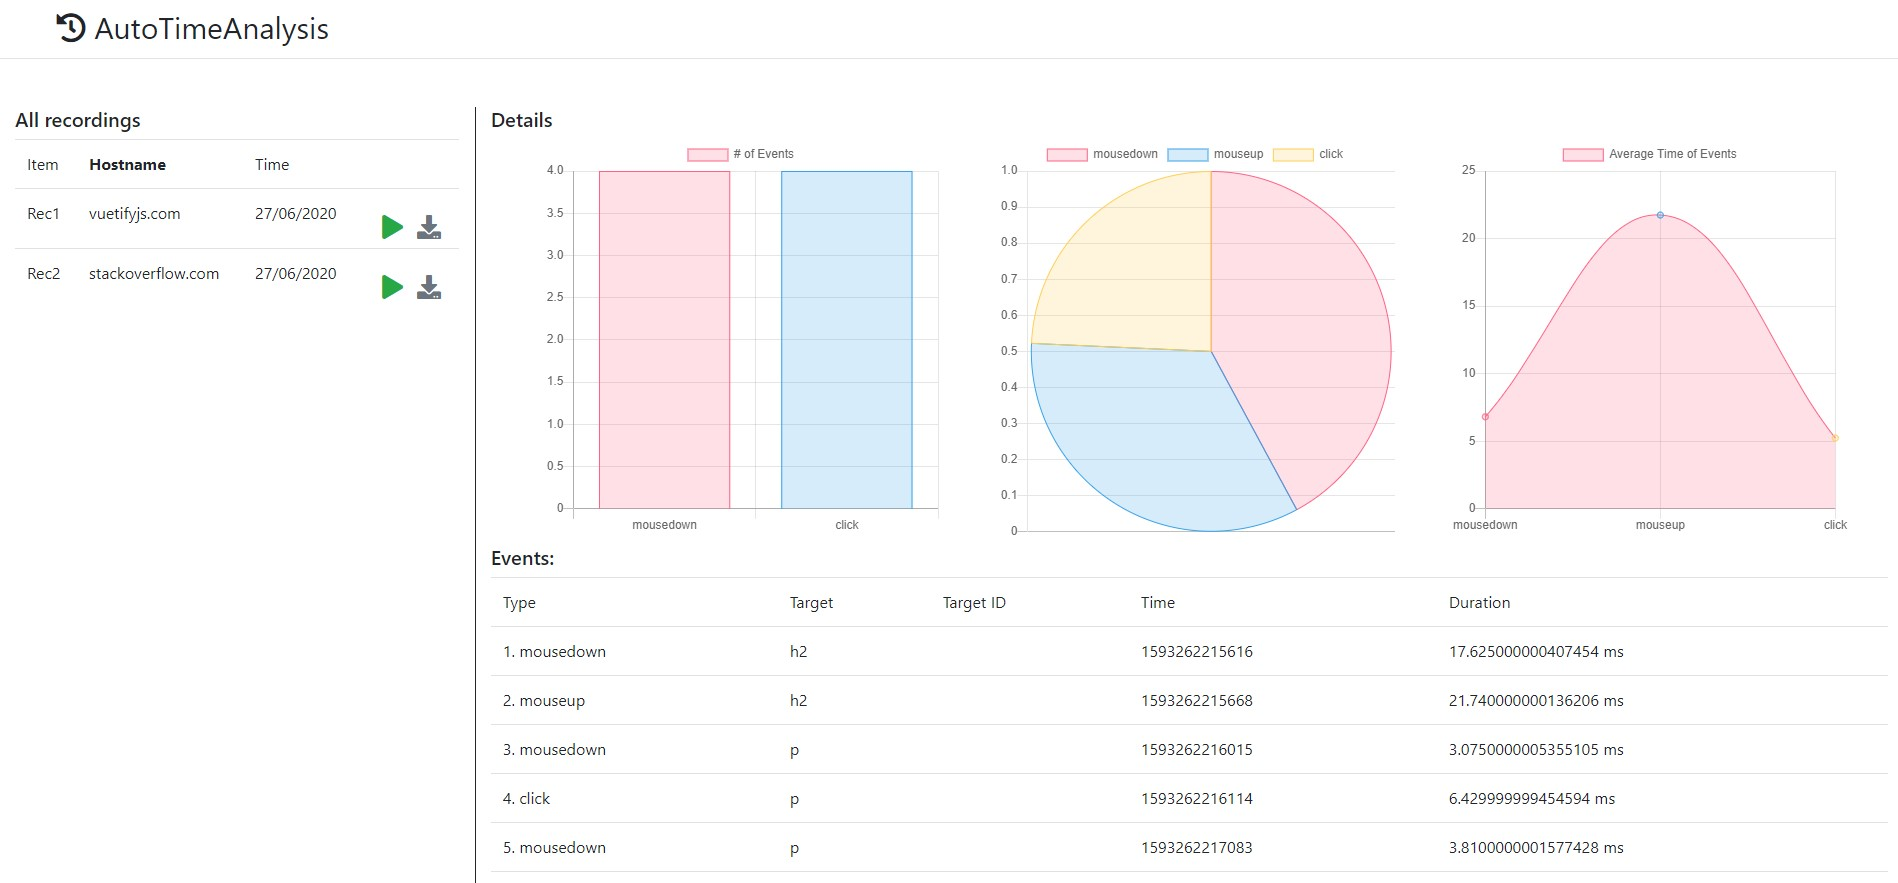
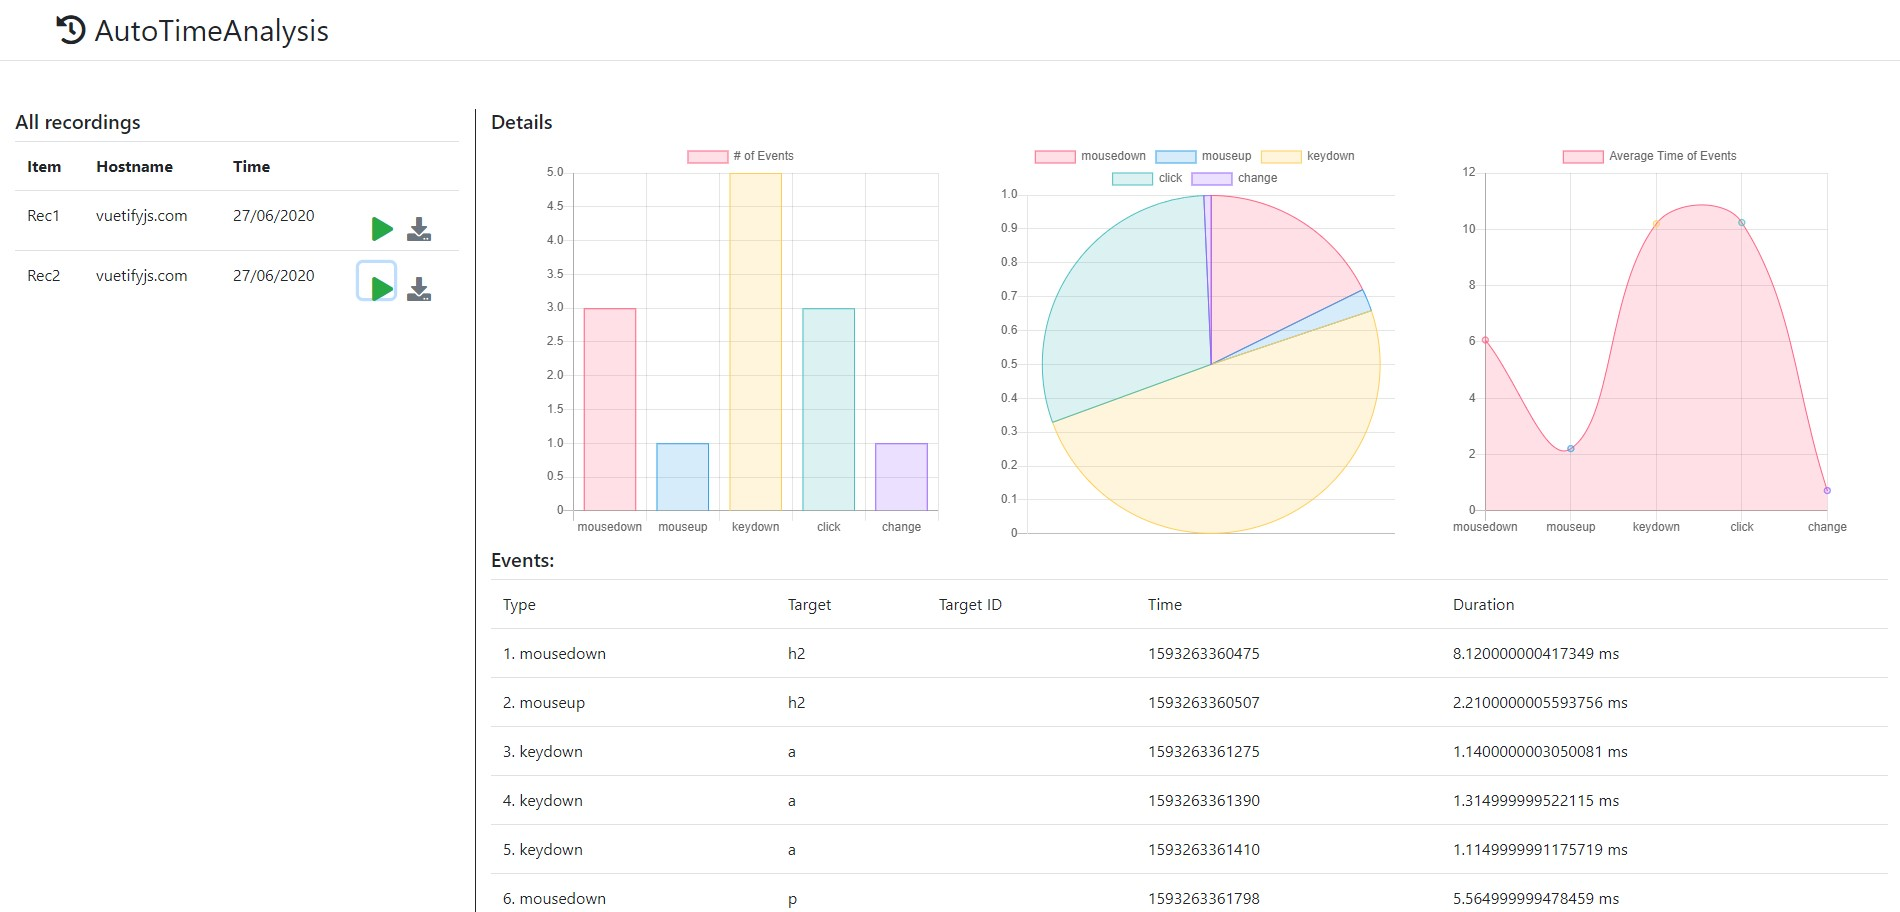
chart fix

diff --git a/AutoTimeAnalysis/options.js b/AutoTimeAnalysis/options.js
@@ -5,6 +5,11 @@ var countBarChart = document.getElementById('countBarChart').getContext('2d');
 var averageTimeLineChart = document.getElementById('averageTimeLineChart').getContext('2d');
 var timePieChart = document.getElementById('timePieChart').getContext('2d');
 
+var countBarChartVar = null;
+var averageTimeLineChartVar = null;
+var timePieChartVar = null;
+
+
 /* let page = document.getElementById('buttonDiv');
 const kButtonColors = ['#3aa757', '#e8453c', '#f9bb2d', '#4688f1'];
 function constructOptions(kButtonColors) {
@@ -151,6 +156,7 @@ function addChart(type, chart, label, labels, data) {
         }
     }
   });
+  return myChart;
 }
 
 function PlayRecording(recording) {
@@ -164,9 +170,16 @@ function PlayRecording(recording) {
   groupedEvents.result.forEach(element => {
     barChartData.push(element.items.length);
   });
-  
 
-  addChart('bar', countBarChart, '# of Events', groupedEvents.values, barChartData);
+  //Clear charts
+  if(countBarChartVar != null) 
+    countBarChartVar.destroy();
+  if(averageTimeLineChartVar != null) 
+    averageTimeLineChartVar.destroy();
+  if(timePieChartVar != null) 
+    timePieChartVar.destroy();
+
+  countBarChartVar = addChart('bar', countBarChart, '# of Events', groupedEvents.values, barChartData);
 
 
   var averageTimeLineChartData = [];
@@ -177,7 +190,7 @@ function PlayRecording(recording) {
     });
     averageTimeLineChartData.push(averageTime / element.items.length);
   });
-  addChart('line', averageTimeLineChart, 'Average Time of Events', groupedEvents.values, averageTimeLineChartData);
+  averageTimeLineChartVar = addChart('line', averageTimeLineChart, 'Average Time of Events', groupedEvents.values, averageTimeLineChartData);
 
   var timePieChartData = [];
   groupedEvents.result.forEach(element => {
@@ -187,7 +200,7 @@ function PlayRecording(recording) {
     });
     timePieChartData.push(duration);
   });
-  addChart('pie', timePieChart, 'Duration of Events', groupedEvents.values, timePieChartData);
+  timePieChartVar = addChart('pie', timePieChart, 'Duration of Events', groupedEvents.values, timePieChartData);
 
   eventsTable.innerHTML = '';
   let headerRow = document.createElement('tr');
